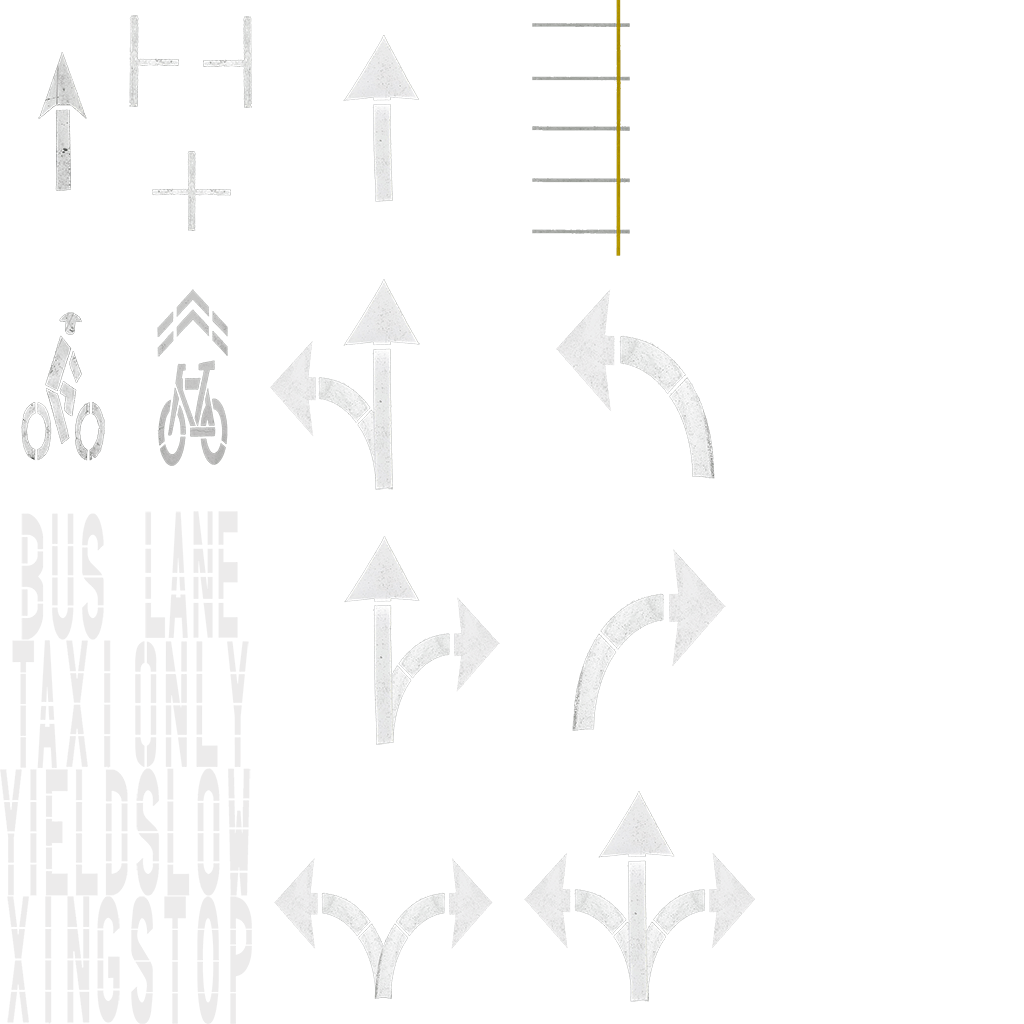
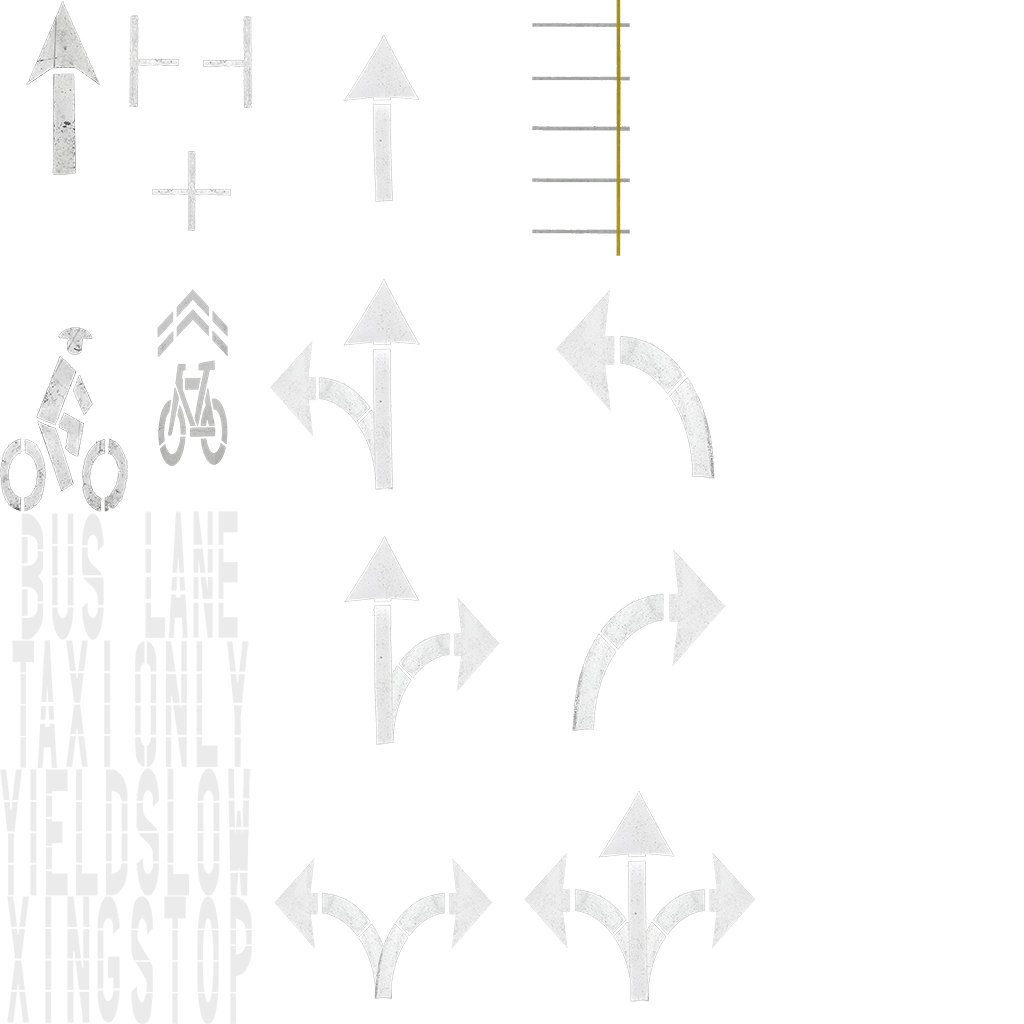
bike lane stencil atlas, asset loader for atlas, lower af timer, stats

Changed region(s): [[0.0, 0.3125, 0.125, 0.5], [0.0312, 0.0, 0.0938, 0.1875]]

diff --git a/index.html b/index.html
@@ -15,7 +15,7 @@
   </head>
   <body>
 
-    <a-scene fogoff="type: linear; color: #D5C69B; far: 200" gltf-model="dracoDecoderPath: js/;">
+    <a-scene stats fogoff="type: linear; color: #D5C69B; far: 200" gltf-model="dracoDecoderPath: js/;">
       <a-assets>
         <a-asset-item id="xd40" src="assets/objects/XD40.glb"></a-asset-item>
         <a-asset-item id="carmodel" src="assets/objects/SM_Veh_Car_Sedan_01.gltf"></a-asset-item>
@@ -26,9 +26,10 @@
         <a-asset-item id="lamp-traditional-glb" src="assets/objects/lamp-post-traditional.glb"></a-asset-item>
 
         <a-asset-item id="pylon-obj" src="assets/objects/nyc-wayfinding-pylon-large-nomtl.obj"></a-asset-item>
-        <image id="wayfinding" src="assets/objects/wayfinding.jpg" />
 
-        <image id="sky" src="assets/CGSkies_0343_8k_ERextended.jpg" />
+        <img id="markings-atlas" src="materials/lane-markings-atlas_2048.png" />
+        <img id="sky" src="assets/CGSkies_0343_8k_ERextended.jpg" />
+        <img id="wayfinding" src="assets/objects/wayfinding.jpg" />
 
         <a-mixin id="drive-lane-t1" geometry="width:3;height:150;primitive:plane" material="repeat:0.3 25;offset:0.55 0;src:materials/TexturesCom_Roads0086_1_seamless_S_rotate.jpg;"></a-mixin>
         <a-mixin id="drive-lane-t0" geometry="width:3;height:150;primitive:plane" material="repeat:1.5 75;src:materials/asphalthd_Base_Color.jpg;normalTextureRepeat:1.5 75;normalMap:materials/asphalthd_Normal.jpg;"></a-mixin>
@@ -48,7 +49,7 @@
         <a-mixin id="separator-solid-t1" af geometry="width:0.4;height:150;primitive:plane" material="repeat:0.25 25;offset:0.38 0;src:materials/separator-solid_1024.png;transparent: true;"></a-mixin>
         <a-mixin id="separator-doubleyellow-t1" af geometry="width:0.5;height:150;primitive:plane" material="repeat:0.25 25;offset:0.38 0;src:materials/separator-double-yellow_512.png;transparent: true;"></a-mixin>
 
-        <a-mixin id="markings" atlas-uvs="totalRows: 4; totalColumns: 4" scale="2 2 2" material="src: materials/lane-markings-atlas_2048.png;alphaTest: 0;transparent:true;" geometry="primitive: plane; buffer: false; skipCache: true"></a-mixin>
+        <a-mixin id="markings" atlas-uvs="totalRows: 4; totalColumns: 4" scale="2 2 2" material="src: #markings-atlas;alphaTest: 0;transparent:true;" geometry="primitive: plane; buffer: false; skipCache: true"></a-mixin>
         <a-mixin id="right" atlas-uvs="column: 3; row: 2"></a-mixin>
         <a-mixin id="left" atlas-uvs="column: 3; row: 3"></a-mixin>
         <a-mixin id="both" atlas-uvs="column: 2; row: 1"></a-mixin>
@@ -57,7 +58,7 @@
         <a-mixin id="right-straight" atlas-uvs="column: 2; row: 2"></a-mixin>
         <a-mixin id="straight" atlas-uvs="column: 2; row: 4"></a-mixin>
         <a-mixin id="sharrow" atlas-uvs="totalRows: 4; totalColumns: 8; column: 2; row: 3" scale="1.5 3 1"></a-mixin>
-        <a-mixin id="bike-lane" af atlas-uvs="totalRows: 2; totalColumns: 8; column: 1; row: 2" scale="2.25 6 2.25"></a-mixin>
+        <a-mixin id="bike-lane" af atlas-uvs="totalRows: 2; totalColumns: 8; column: 1; row: 2" scale="1 4 1"></a-mixin>
 
         <a-mixin id="stencil-bus" atlas-uvs="totalRows: 8; totalColumns: 8; column: 1; row: 4" scale="3 3 3"></a-mixin>
         <a-mixin id="stencil-lane" atlas-uvs="totalRows: 8; totalColumns: 8; column: 2; row: 4" scale="3 3 3"></a-mixin>

diff --git a/js/aframe-streetmix-textured.js b/js/aframe-streetmix-textured.js
@@ -1,12 +1,13 @@
 // Orientation - default model orientation is "outbound" (away from camera)
 
 AFRAME.registerComponent('af', {
+  dependencies: ['material', 'geometry'],
   init: function () {
     // wait until this object  model is loaded ...
     setTimeout(() => {
       this.el.getObject3D('mesh').material.map.anisotropy = 4;
       this.el.getObject3D('mesh').material.map.needsUpdate = true;
-    }, 8000);
+    }, 5000);
   },
 })
 
